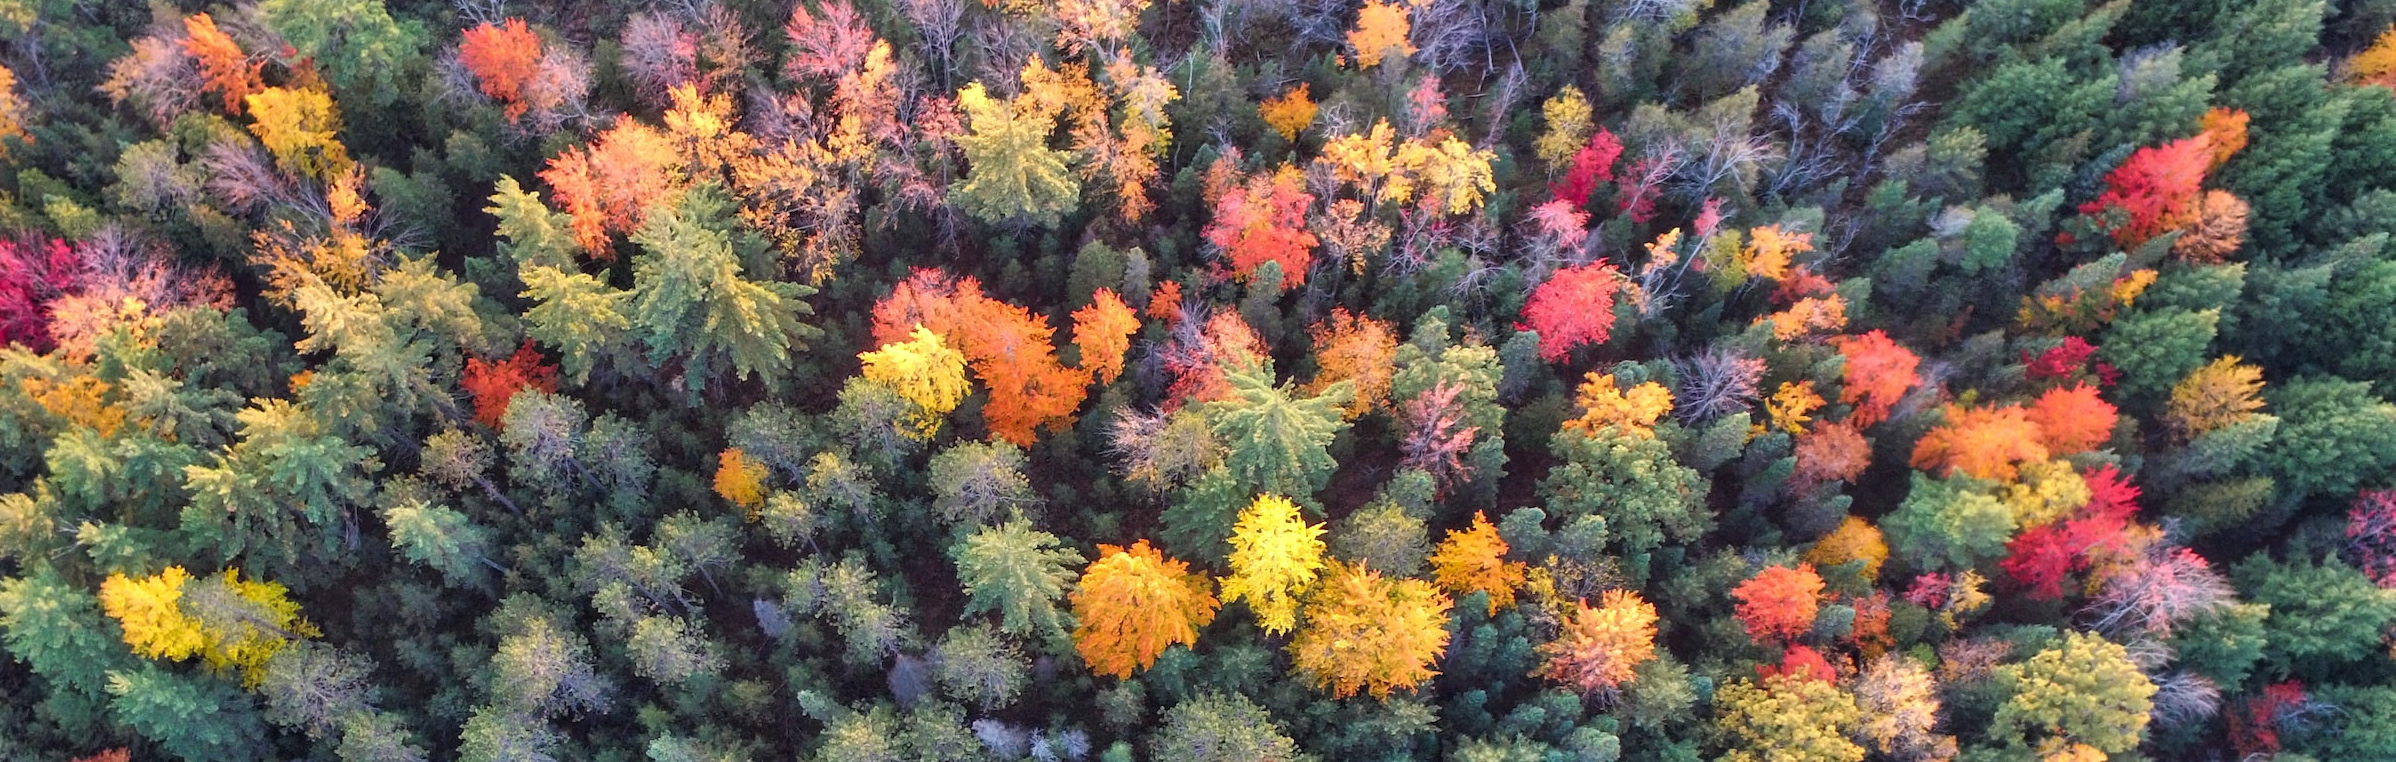
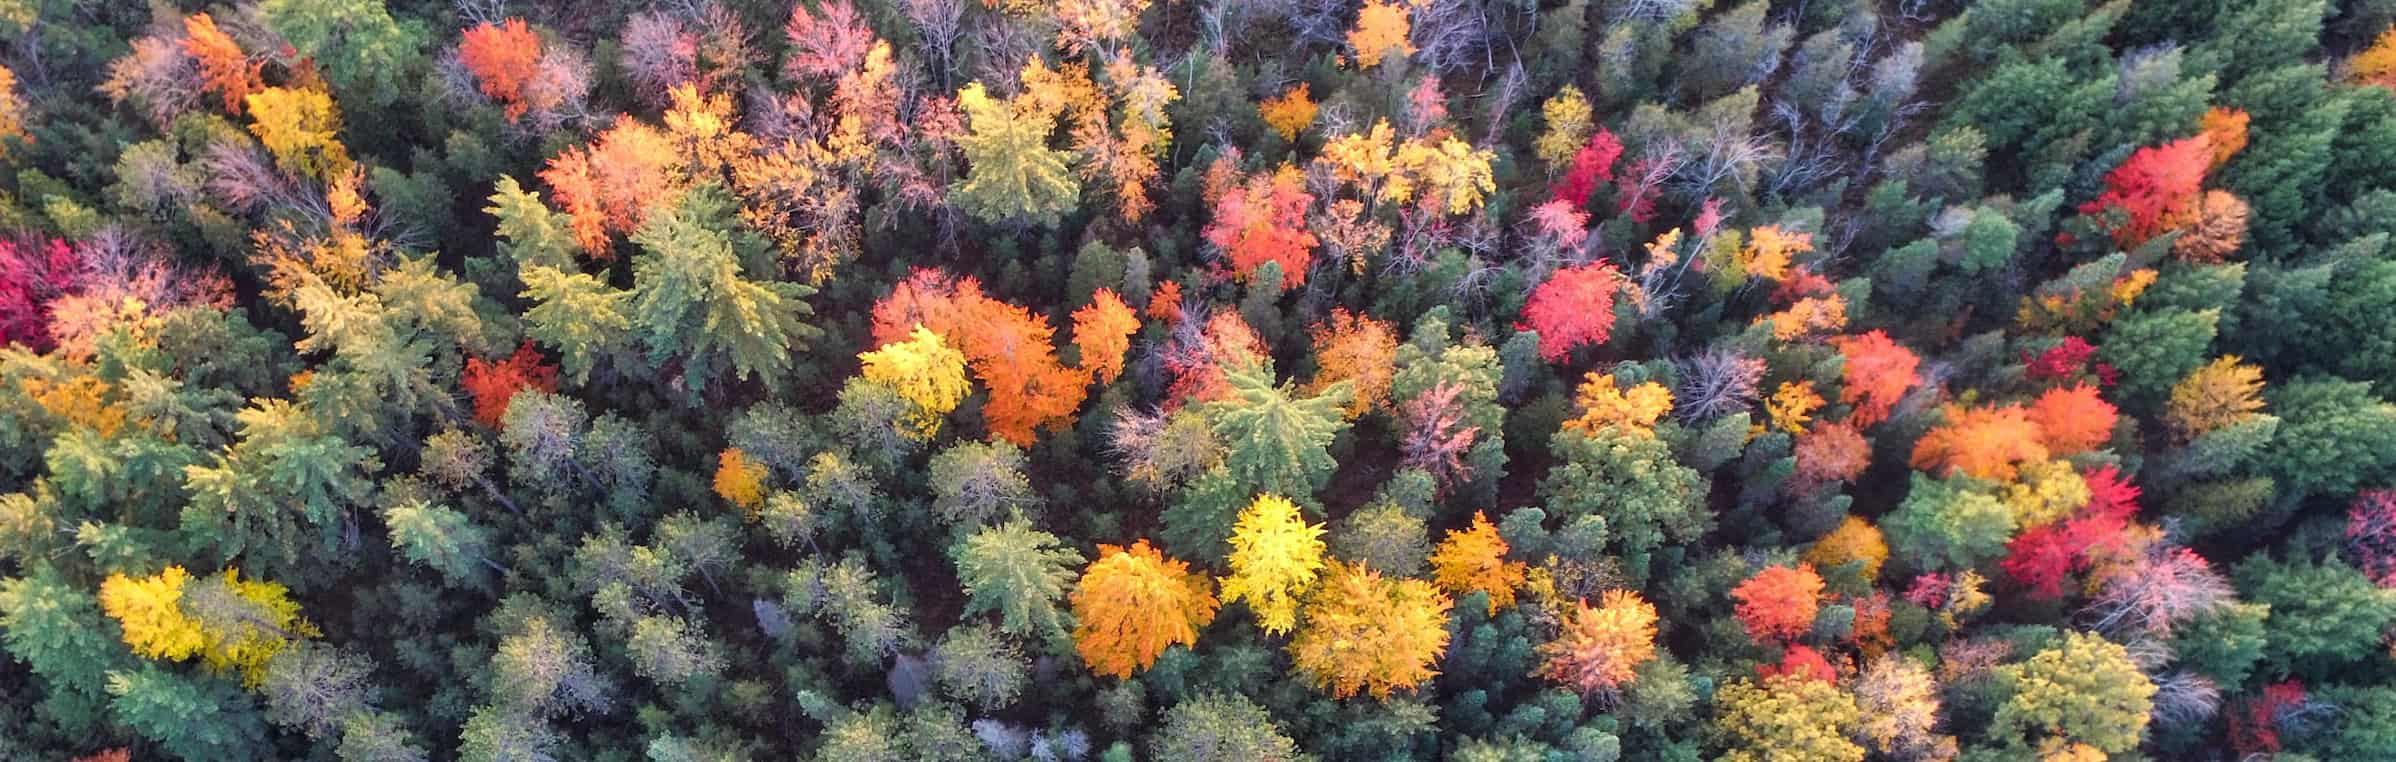
changed picture size and added burger menu for media

diff --git a/styles.css b/styles.css
@@ -36,7 +36,65 @@ nav a {
     color: white;
     text-decoration: none;
     font-weight: bold;
-    transition: background-color 0.3s, color 0.3s; /* Smooth effect */
+    transition: background-color 0.3s, color 0.3s;
+}
+
+/* Hide the checkbox */
+.menu-toggle {
+    display: none;
+}
+
+/* Style the burger icon */
+.menu-icon {
+    display: none;
+    font-size: 24px;
+    color: white;
+    cursor: pointer;
+    position: absolute;
+    top: 20px;
+    right: 20px;
+}
+
+/* Ensure nav is visible on desktop */
+nav ul {
+    list-style: none;
+    display: flex;
+    gap: 20px;
+}
+
+nav a {
+    color: white;
+    text-decoration: none;
+    font-weight: bold;
+    transition: background-color 0.3s, color 0.3s;
+}
+
+/* Mobile styles */
+@media (max-width: 768px) {
+    .menu-icon {
+        display: block;
+    }
+
+    nav ul {
+        display: none;
+        flex-direction: column;
+        position: fixed;
+        top: 60px;
+        left: 0;
+        background-color: #616969;
+        width: 100%;
+        padding: 20px;
+        text-align: center;
+        z-index: 100;
+    }
+
+    .menu-toggle:checked ~ nav ul {
+        display: flex;
+    }
+
+    .hero {
+        z-index: 1;
+    }
 }
 
 
@@ -628,7 +686,6 @@ footer {
         gap: 10px;
         text-align: center;
     }
-
     .hero-text h1 {
         font-size: 1.5em;
         text-align: center;
@@ -694,4 +751,55 @@ html, body {
 
 * {
     box-sizing: border-box; /* Ensure padding/margins don’t cause overflow */
+}
+/* Hide the checkbox */
+.menu-toggle {
+    display: none;
+}
+
+/* Style the burger icon */
+.menu-icon {
+    display: none;
+    font-size: 24px;
+    color: white;
+    cursor: pointer;
+    position: absolute;
+    top: 20px;
+    right: 20px;
+}
+
+/* Default nav styles for desktop */
+nav ul {
+    list-style: none;
+    display: flex;
+    gap: 20px;
+}
+
+nav a {
+    color: white;
+    text-decoration: none;
+    font-weight: bold;
+}
+
+/* Mobile styles */
+@media (max-width: 768px) {
+    .menu-icon {
+        display: block;
+    }
+
+    nav ul {
+        display: none;
+        flex-direction: column;
+        position: absolute;
+        top: 60px;
+        right: 0;
+        background-color: #4A5E5E;
+        width: 100%;
+        padding: 20px;
+        text-align: center;
+    }
+
+    .menu-toggle:checked ~ nav ul {
+        display: flex;
+    }
 }

diff --git a/index.html b/index.html
@@ -10,8 +10,10 @@
 <body>
     <header>
         <div class="logo">
-            <img src="assets/Rootrise_white.png" alt="RootRise Logo">
-        </div>  
+            <a href="index.html"><img src="assets/RootRise_white.png" alt="RootRise Logo"></a>
+        </div>
+        <input type="checkbox" id="menu-checkbox" class="menu-toggle">
+        <label for="menu-checkbox" class="menu-icon">☰</label>
         <nav>
             <ul>
                 <li><a href="index.html">home</a></li>
@@ -21,6 +23,7 @@
             </ul>
         </nav>
     </header>
+    
     <main>
         <section class="hero">
             <img src="assets/forest.jpg" alt="Colorful forest">

diff --git a/about.html b/about.html
@@ -10,8 +10,10 @@
 <body>
     <header>
         <div class="logo">
-            <img src="assets/Rootrise_white.png" alt="RootRise Logo">
-        </div>  
+            <a href="index.html"><img src="assets/RootRise_white.png" alt="RootRise Logo"></a>
+        </div>
+        <input type="checkbox" id="menu-checkbox" class="menu-toggle">
+        <label for="menu-checkbox" class="menu-icon">☰</label>
         <nav>
             <ul>
                 <li><a href="index.html">home</a></li>

diff --git a/contact.html b/contact.html
@@ -10,8 +10,10 @@
 <body>
     <header>
         <div class="logo">
-            <img src="assets/Rootrise_white.png" alt="RootRise Logo">
-        </div>  
+            <a href="index.html"><img src="assets/RootRise_white.png" alt="RootRise Logo"></a>
+        </div>
+        <input type="checkbox" id="menu-checkbox" class="menu-toggle">
+        <label for="menu-checkbox" class="menu-icon">☰</label>
         <nav>
             <ul>
                 <li><a href="index.html">home</a></li>

diff --git a/donate.html b/donate.html
@@ -10,8 +10,10 @@
 <body>
     <header>
         <div class="logo">
-            <img src="assets/Rootrise_white.png" alt="RootRise Logo">
-        </div>  
+            <a href="index.html"><img src="assets/RootRise_white.png" alt="RootRise Logo"></a>
+        </div>
+        <input type="checkbox" id="menu-checkbox" class="menu-toggle">
+        <label for="menu-checkbox" class="menu-icon">☰</label>
         <nav>
             <ul>
                 <li><a href="index.html">home</a></li>

diff --git a/thank-you.html b/thank-you.html
@@ -10,8 +10,10 @@
 <body>
     <header>
         <div class="logo">
-            <img src="assets/Rootrise_white.png" alt="RootRise Logo">
-        </div>  
+            <a href="index.html"><img src="assets/RootRise_white.png" alt="RootRise Logo"></a>
+        </div>
+        <input type="checkbox" id="menu-checkbox" class="menu-toggle">
+        <label for="menu-checkbox" class="menu-icon">☰</label>
         <nav>
             <ul>
                 <li><a href="index.html">home</a></li>

diff --git a/trees.html b/trees.html
@@ -10,8 +10,10 @@
 <body>
     <header>
         <div class="logo">
-            <img src="assets/Rootrise_white.png" alt="RootRise Logo">
-        </div>  
+            <a href="index.html"><img src="assets/RootRise_white.png" alt="RootRise Logo"></a>
+        </div>
+        <input type="checkbox" id="menu-checkbox" class="menu-toggle">
+        <label for="menu-checkbox" class="menu-icon">☰</label>
         <nav>
             <ul>
                 <li><a href="index.html">home</a></li>
